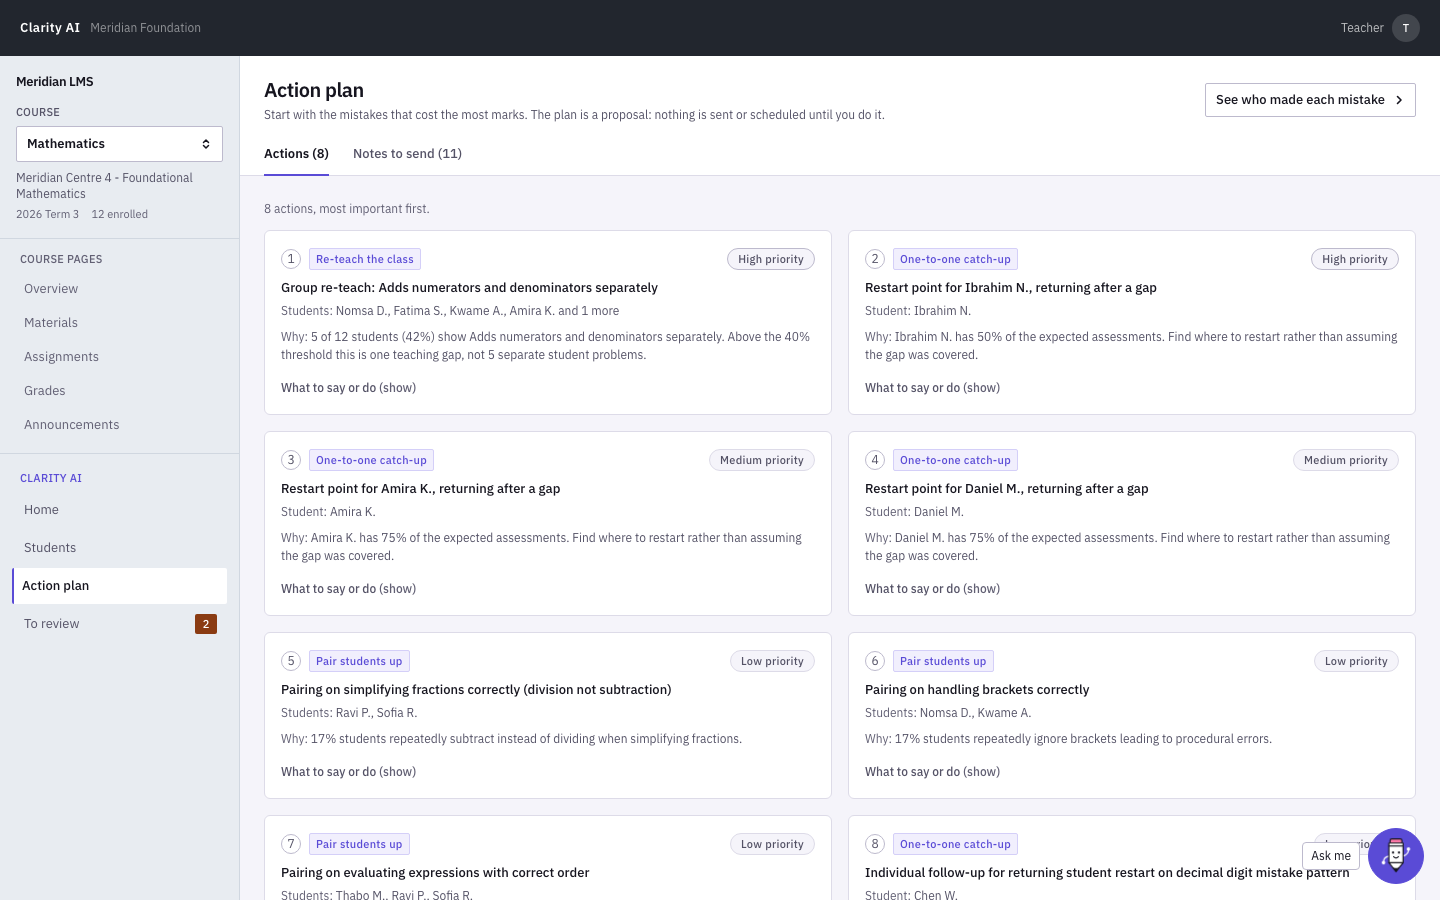
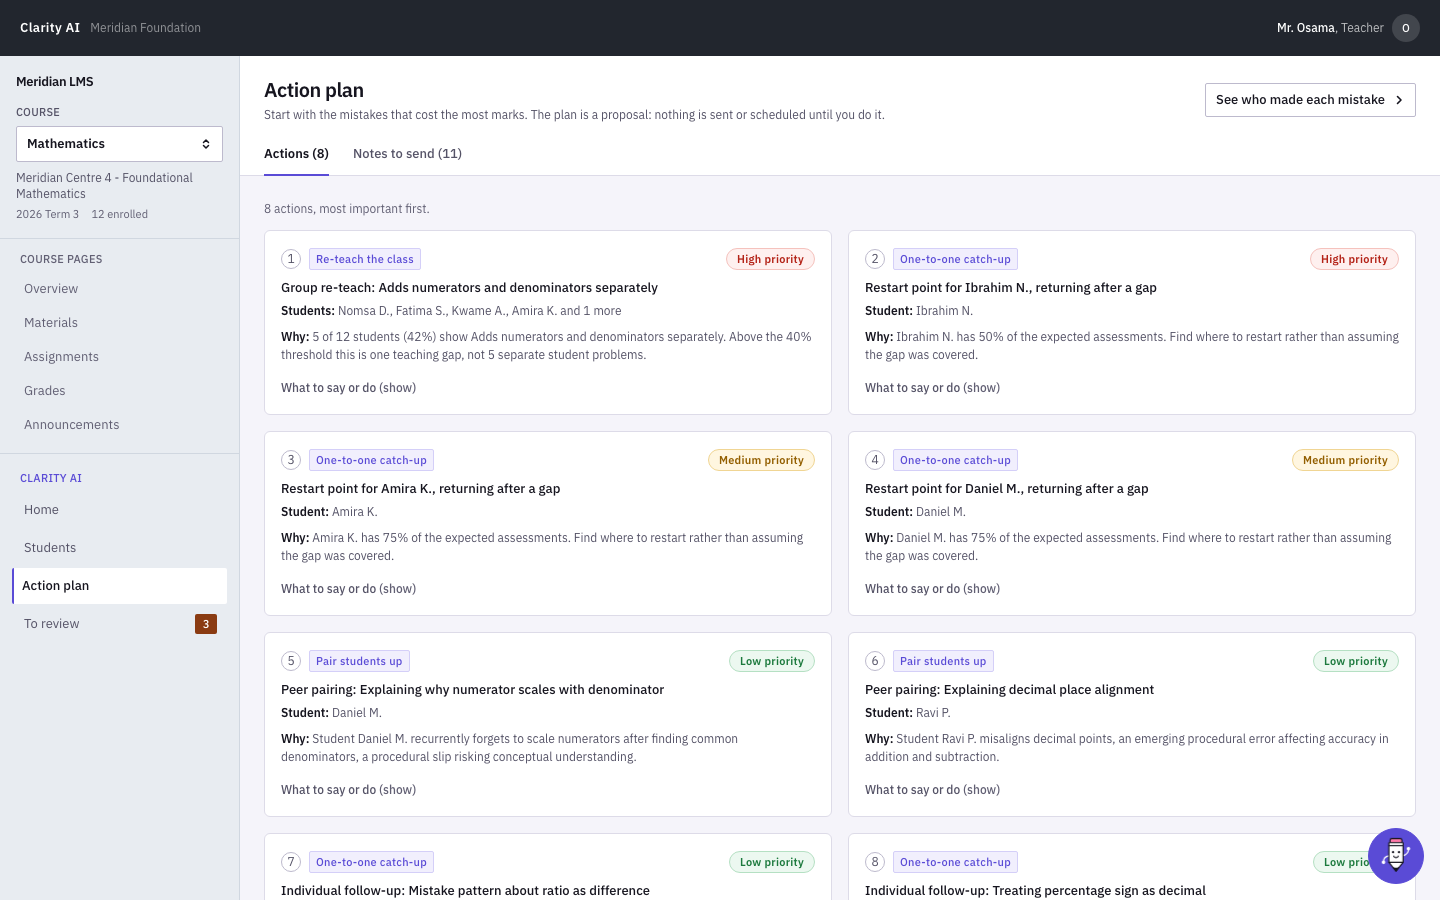
docs: screenshots and docs for the clean start, greeting and priority colours
The app no longer opens on the seeded example, so AGENTS.md, the README
and docs/architecture.md now say Home is empty until a test is analysed,
and that the seed exists for learner history. The traffic-light priority
colours are recorded as the one exception to the single accent. Home,
mistakes, review, plan, students and email screenshots come from a live
run.

diff --git a/docs/architecture.md b/docs/architecture.md
@@ -217,11 +217,13 @@ than silent.
 ## Demo seeding
 
 `backend/demo_seed.py` runs A1 and A2 for learner history and A3 for a finished
-batch during FastAPI startup, so the app opens on a worked example rather than an
-empty shell. It always uses the rule engine, which makes it instant, free and
-identical on every machine, and it is idempotent, so a restart never overwrites
-the run someone is looking at. `/api/batch/latest` serves it; the UI adopts it on
-mount and labels it as an example. Each agent falls back to `backend/agents/offline_rules.py`,
+batch during FastAPI startup, so a live run finds each student's earlier results
+and can tell a mistake that keeps happening from a new one. It always uses the
+rule engine, which makes it instant, free and identical on every machine, and it
+is idempotent, so a restart never overwrites an existing run.
+`/api/batch/latest` serves the seeded batch, but the UI does not adopt it: Home
+opens empty on every load and fills only after the teacher presses *Analyse this
+test*. Each agent falls back to `backend/agents/offline_rules.py`,
 a deterministic engine that reads the marking scheme and the taxonomy. The
 system runs end to end with no key and no network.
 
@@ -244,9 +246,9 @@ and `src/hooks/useSession.tsx`.
 
 | Page | What it answers | Built from |
 |---|---|---|
-| Home | How did the class do, and is a mistake one student's or the teaching's? | Test picker, the whole-class problem with its drafted re-teach, the score histogram beside four headline numbers, the most common mistakes against the 40 percent line, and a heatmap of who made which mistake |
+| Home | How did the class do, and is a mistake one student's or the teaching's? | A greeting for the teacher and the test picker. Empty until *Analyse this test* is pressed, then the whole-class problem with its drafted re-teach, the score histogram beside four headline numbers, the most common mistakes against the 40 percent line, and a heatmap of who made which mistake |
 | Students | Why did this student lose marks, and has it happened before? | Diagnoses with the evidence highlighted inside the answer, mistake history across tests, and the note to the student |
-| Action plan | What should the teacher do next, in what order? | `plan.scheduled` as cards, most important first, and the notes to send |
+| Action plan | What should the teacher do next, in what order? | `plan.scheduled` as cards, most important first, each with a red, amber or green priority, and the notes to send |
 | Needs your call | What did the agent refuse to decide alone? | `escalations`, grouped by reason, each showing both readings and what the agent would have chosen |
 
 Home used to share its class view with a separate Class page. That page was
@@ -267,7 +269,8 @@ change marked.
 ### Colour and motion
 
 One accent, a violet built on `#6c5ce7`, marks agent activity and decisions. A
-rust accent marks anything handed to the teacher. Charts use the same violet
+rust accent marks anything handed to the teacher. Priority on the action plan is the one traffic-light exception: red, amber and
+green tints in the `priority` tokens, used nowhere else. Charts use the same violet
 family plus one pink for "look at this": a whole-class mistake, or a mistake
 that keeps happening. The tokens live in `frontend/tailwind.config.js`. Charts
 animate in with CSS keyframes from `src/index.css`: bars grow, lines draw,

diff --git a/AGENTS.md b/AGENTS.md
@@ -93,12 +93,14 @@ Breaking any of these is a defect, not a trade-off. Each has a test.
     `cohort_analyst`, not at `intake`. Marks below the override are not re-run.
     `tests/test_override_replan.py` guards this end to end.
 
-**The app is never empty on first open.** `backend/demo_seed.py` runs A1 and A2
-for history and A3 for a finished batch at startup, always on the deterministic
-rules so it is instant, free and identical everywhere. It is idempotent and
-never overwrites an existing run. `/api/batch/latest` serves it and the UI adopts
-it on mount, labelled as a worked example so nobody mistakes it for their own
-data. Set `LOOP_SEED_DEMO=0` to turn it off.
+**Home is empty until the teacher analyses a test.** Every page load starts
+clean, and nothing is shown until *Analyse this test* is pressed, so what is on
+screen is always the teacher's own run. `backend/demo_seed.py` still runs A1 and
+A2 for history and A3 for a finished batch at startup, always on the
+deterministic rules so it is instant, free and identical everywhere. The history
+is what makes "keeps happening" work on the first live run. It is idempotent and
+never overwrites an existing run. `/api/batch/latest` still serves the seeded
+batch, but the UI no longer adopts it. Set `LOOP_SEED_DEMO=0` to turn it off.
 
 ## 3. How to run things
 
@@ -201,6 +203,9 @@ it must not look generated.
 - **Charts arrive, they do not pop in.** Bars grow, lines draw and headline
   numbers count up on first show, using the keyframes in `src/index.css`. All of
   it switches off under `prefers-reduced-motion`. No animation library.
+- **Priority on the action plan is the one traffic-light exception**: red for
+  high, amber for medium, green for low, as soft tints with dark text, in the
+  `priority` tokens. Use them nowhere else.
 - **Summaries sit in a bar across the top**, not a side column, so the work gets
   the full width. Students is the exception: its rail is the list it works from.
 - **Confidence is always a number.** Never a bare colour. A judge will ask what

diff --git a/README.md b/README.md
@@ -143,7 +143,7 @@ git clone https://github.com/syedahmedkhaderi/clarity-ai-mckinsey-hackathon.git 
 ./setup.sh && ./start.sh        # then open http://localhost:5173
 ```
 
-- **It opens on a finished example**, so there is something to see straight away. Press *Analyse this test* to run it live.
+- **It opens clean.** Home greets the teacher and waits. Choose a test and press *Analyse this test*, and the agents run live. Earlier tests are seeded at startup, so a student's repeated mistakes are recognised on the first run.
 - **No API key needed.** With no key it runs on deterministic rules. With `QB_CLIENT_ID` and `QB_CLIENT_SECRET` it uses the QuantumBlack gateway (`gpt-4.1-mini`). With `OPENAI_API_KEY` it calls OpenAI directly.
 - **Email:** set `GMAIL_USER` and `GMAIL_APP_PASSWORD` in `.env` to send for real. Without them, notes are saved and marked as not delivered.
 
